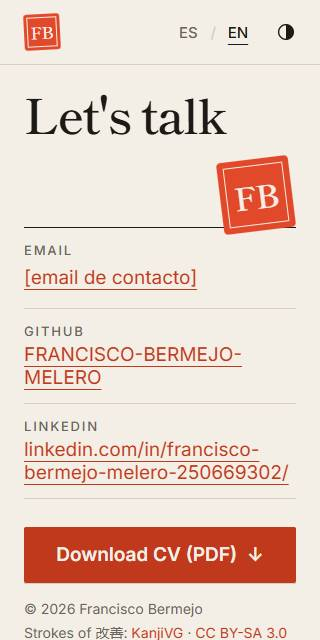
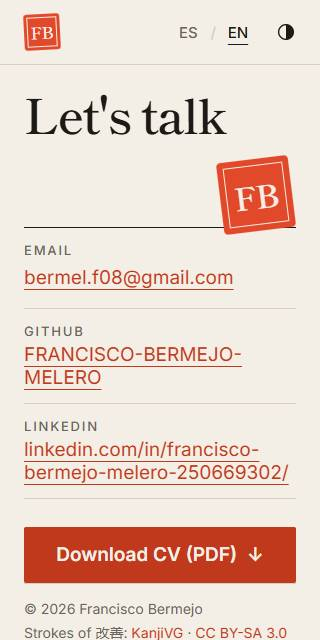
📝 docs(auto): 13 ficheros: 02-DOCS/wiki/ftd/capturas-contenido/en-1440-papel-contacto.jpg, 02-DOCS/wiki/ftd/capturas-contenido/en-1440-sumi-contacto.jpg, 02-DOCS/wiki/ftd/capturas-contenido/en-320-papel-contacto.jpg y 10 más [skip ci]

Changed region(s): [[0.0625, 0.4062, 0.7188, 0.4688]]

diff --git a/02-DOCS/wiki/ftd/contenido-revision.md b/02-DOCS/wiki/ftd/contenido-revision.md
@@ -33,7 +33,8 @@ verificados de la spec, las maquetas de `reference/` y las respuestas de Fran.
 | La previa | Se describe lo que hace el código (lógica en funciones RPC de Supabase) |
 | Validación | Con las herramientas del proyecto (Chrome por CDP), no con Playwright (decisión previa del plan, §1.8) |
 | Foto | Fuera: el diseño no tiene hueco |
-| Email, CV, años | **Sin respuesta**: quedan pendientes (abajo) |
+| Email | bermel.f08@gmail.com (respuesta posterior de Fran) |
+| CV, años | CV: «lo subimos al final». Años: sin respuesta; quedan pendientes (abajo) |
 
 ## Textos por sección
 
@@ -199,15 +200,14 @@ Sacado de los repos, por si se abre hueco (fase 7, detalles de cada proyecto):
 ## Pendiente
 | Qué | Dónde se cambia | Nota |
 | --- | --- | --- |
-| Email de contacto | `web/src/data/site.ts` (`contact.email`) | También entra en el JSON-LD si se quiere |
-| CV en PDF | `web/public/cv/` y `contact.cv` en `site.ts` | El de ahora es de prueba. Dijiste «quítalo / lo sustituyo yo» sin elegir |
+| CV en PDF | `web/public/cv/` y `contact.cv` en `site.ts` | El de ahora es de prueba. Fran lo sube al final |
 | Años de los hitos 1, 2 y 3 | `web/src/data/journey.ts` | Inicio del DAM, Fernauro, prácticas en Gavisa |
 | Año del título de DAM | `journey.ts`, en el detalle del hito que le toque | No es 2023 |
 | Capturas de DocChain, FinTrack y Web3 Blog (y su pie) | `web/src/assets/projects/` + `projects.ts` | Los repos no las traen; no se han inventado |
 | `og:image` | `web/public/og-image.png` | No existe; prevista en la fase 8 |
 | URL absolutas (canonical, `hreflang`, `og:url`) | `astro.config.mjs` (`site`) | Sin dominio son relativas; Google pide absolutas. Fase 8 |
 
-Los marcadores que quedan (`pnpm content:pending`) son exactamente estos: 3 años, email, CV,
+Los marcadores que quedan (`pnpm content:pending`) son exactamente estos: 3 años, CV,
 3 capturas y su pie (en ES y EN). `STRICT_CONTENT=1 pnpm build` fallará hasta que lleguen.
 
 ## Incoherencias encontradas
